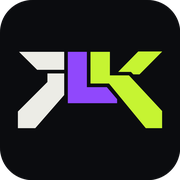
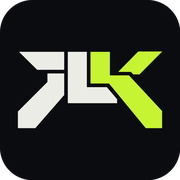
feat(brand): white L in the TLK monogram and the TRALKED wordmark

Changed region(s): [[0.3611, 0.2778, 0.6667, 0.5833]]

diff --git a/app/src/components/brand/Logo.tsx b/app/src/components/brand/Logo.tsx
@@ -7,7 +7,7 @@ type LogoProps = {
 };
 
 /**
- * Monograma "TLK": T na cor do texto, L no roxo do logo, K no acento. Com `size`, altura fixa em px;
+ * Monograma "TLK": T e L na cor do texto, K no acento. Com `size`, altura fixa em px;
  * sem `size`, a altura vem do `className` (ex. `h-9`) e a largura segue a proporção.
  */
 export function Emblem({ size, className = "" }: { size?: number; className?: string }) {
@@ -22,13 +22,13 @@ export function Emblem({ size, className = "" }: { size?: number; className?: st
       className={`flex-none ${className}`}
     >
       <path d={EMBLEM.t} fill="currentColor" />
-      <path d={EMBLEM.l} fill="var(--logo-purple)" />
+      <path d={EMBLEM.l} fill="currentColor" />
       <path d={EMBLEM.k} fill="var(--acc)" />
     </svg>
   );
 }
 
-/** Logotipo "TRALKED": letras na cor do texto (currentColor), o L no roxo do logo (ou `--wordmark-l`), o K no acento (ou `--wordmark-k`). */
+/** Logotipo "TRALKED": letras na cor do texto (currentColor), o L também (ou `--wordmark-l`), o K no acento (ou `--wordmark-k`). */
 export function Wordmark({ height, className = "", label }: { height: number; className?: string; label?: string }) {
   return (
     <svg
@@ -39,7 +39,7 @@ export function Wordmark({ height, className = "", label }: { height: number; cl
       {...(label ? { role: "img", "aria-label": label } : { "aria-hidden": true })}
     >
       <path d={WORDMARK.d} fill="currentColor" fillRule="evenodd" />
-      <path d={WORDMARK.l} fill="var(--wordmark-l, var(--logo-purple))" />
+      <path d={WORDMARK.l} fill="var(--wordmark-l, currentColor)" />
       <path d={WORDMARK.k} fill="var(--wordmark-k, var(--acc))" />
     </svg>
   );

diff --git a/app/src/app/opengraph-image.tsx b/app/src/app/opengraph-image.tsx
@@ -14,7 +14,6 @@ const BG = "#0b0c0f";
 const TEXT = "#ecece6";
 const MUTED = "#9ea1a9";
 const ACC = "#c6f432";
-const LOGO_PURPLE = "#9048fc";
 
 const font = (file: string) => readFile(join(process.cwd(), "assets/fonts", file));
 
@@ -39,12 +38,12 @@ export default async function Image() {
         <div style={{ display: "flex", alignItems: "center", gap: 36 }}>
           <svg width={Math.round((120 * EMBLEM.width) / EMBLEM.height)} height="120" viewBox={`0 0 ${EMBLEM.width} ${EMBLEM.height}`}>
             <path d={EMBLEM.t} fill={TEXT} />
-            <path d={EMBLEM.l} fill={LOGO_PURPLE} />
+            <path d={EMBLEM.l} fill={TEXT} />
             <path d={EMBLEM.k} fill={ACC} />
           </svg>
           <svg width={Math.round((96 * WORDMARK.width) / WORDMARK.height)} height="96" viewBox={`0 0 ${WORDMARK.width} ${WORDMARK.height}`}>
             <path d={WORDMARK.d} fill={TEXT} fillRule="evenodd" />
-            <path d={WORDMARK.l} fill={LOGO_PURPLE} />
+            <path d={WORDMARK.l} fill={TEXT} />
             <path d={WORDMARK.k} fill={ACC} />
           </svg>
         </div>

diff --git a/app/src/components/brand/marks.ts b/app/src/components/brand/marks.ts
@@ -6,7 +6,7 @@
  * accent.
  */
 
-/** "TLK" monogram (the game-controller symbol): white T (`t`, bar tip pointing up), purple L (`l`),
+/** "TLK" monogram (the game-controller symbol): white T (`t`, bar tip pointing up), white L (`l`),
  * lime K (`k`). Every gap between pieces is exactly 12 units; all pieces share the top line. */
 export const EMBLEM = {
   width: 444,
@@ -16,7 +16,7 @@ export const EMBLEM = {
   k: "M224 0 224 97 280.7 97 394.3 235 444 235 444 182 342 73 283 73 283 0ZM443.8 -0.8 370.8 -0.8 309.8 61.2 348.8 61.2 355.8 69.2 374.8 69.2Z",
 } as const;
 
-/** "TRALKED" wordmark: `d` draws T R A E D (even-odd, for the counters), `l` the purple L, `k` the lime K. */
+/** "TRALKED" wordmark: `d` draws T R A E D (even-odd, for the counters), `l` the L (white), `k` the lime K. */
 export const WORDMARK = {
   width: 1391,
   height: 219,

diff --git a/app/src/app/globals.css b/app/src/app/globals.css
@@ -26,8 +26,6 @@
   --acc: #c6f432;
   /* Brand purple for UI marks (rank arrows…): light enough for AA text on the dark surfaces. */
   --brand-2: #a368fa;
-  /* Logo purple: the L of the TLK monogram and of the wordmark (exact logo colour, graphics only). */
-  --logo-purple: #9048fc;
   --discord: #5865f2;
   --ps: oklch(0.74 0.14 255);
   --xbox: oklch(0.74 0.14 145);
